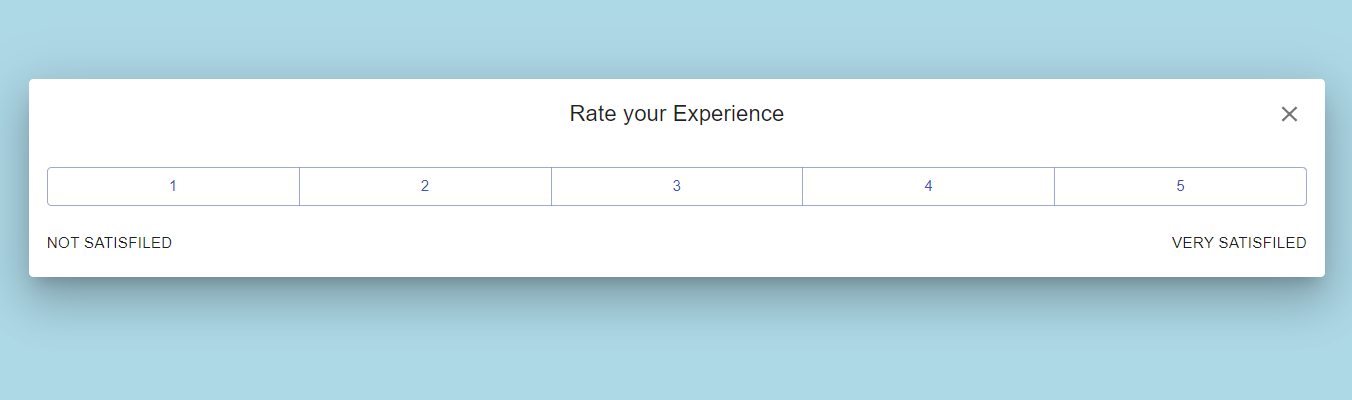
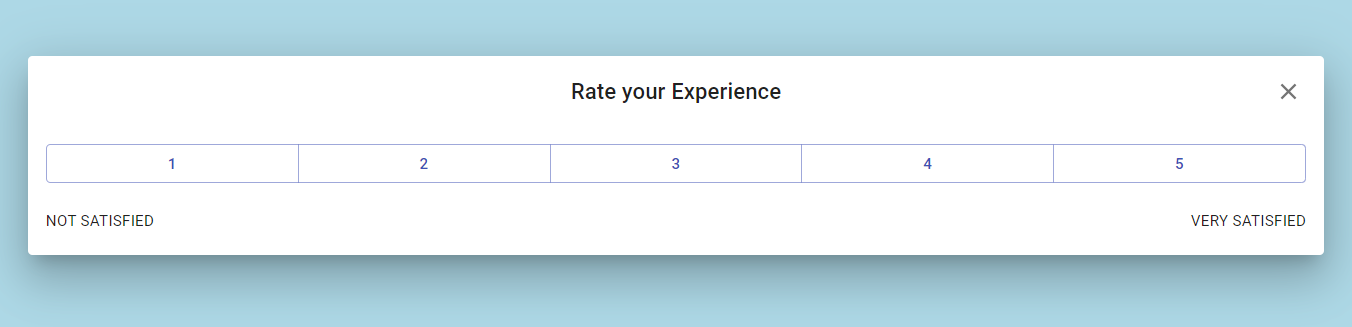
feat(typo) fixed typo

diff --git a/src/views/RatingCard.jsx b/src/views/RatingCard.jsx
@@ -93,12 +93,12 @@ export default function RatingCard(props) {
                 <RatingGroup handleClickOpen={handleButtonClick} />
               </Grid>
               <Grid item xs={3}>
-                <Typography gutterBottom variant="body2">NOT SATISFILED</Typography>
+                <Typography gutterBottom variant="body2">NOT SATISFIED</Typography>
               </Grid>
               <Grid item xs={3} />
               <Grid item xs={3} />
               <Grid item xs={3}>
-                <Typography gutterBottom align="right" variant="body2">VERY SATISFILED</Typography>
+                <Typography gutterBottom align="right" variant="body2">VERY SATISFIED</Typography>
               </Grid>
             </Grid>
           </DialogContent>
